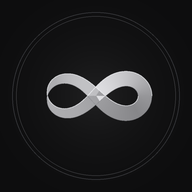
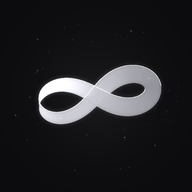
perf+design: ★글 작성 기본 1패스로 속도 대폭개선(3패스는 '✨품질 다듬기' 버튼으로 선택)+툴 변경시 이전요청 취소 / 여백 대폭확대(찌부 해결) / 아이콘-행성고리 눕힌∞+달빛 halo+미세 별빛

diff --git a/index.html b/index.html
@@ -1,7 +1,7 @@
 <!DOCTYPE html>
 <html lang="ko">
 <head>
-<meta name="build" content="0713-0408">
+<meta name="build" content="0713-0421">
 <meta http-equiv="Cache-Control" content="no-cache, no-store, must-revalidate">
 <meta http-equiv="Pragma" content="no-cache">
 <meta http-equiv="Expires" content="0">
@@ -499,6 +499,67 @@
   .thumbs{display:grid;grid-template-columns:repeat(4,1fr);gap:6px;margin-top:10px}
   .thumbs img{width:100%;aspect-ratio:1;object-fit:cover;border-radius:8px}
   .fdiv{height:1px;background:rgba(255,255,255,.06);margin:6px 0 18px}
+  /* ── 최종 스페이싱 (이미지 사양: 여유롭게) ── */
+  .page{padding:0 16px}
+  #page-make{padding-bottom:170px}
+  .hero{padding:20px 0 0}
+
+  .step-card{padding:26px 22px !important;margin-bottom:24px !important;border-radius:22px !important}
+  .sec-head{gap:16px !important;margin:0 0 22px !important}
+  .sec-num{width:48px !important;height:48px !important;border-radius:15px !important;font-size:16px !important}
+  .sec-kicker{font-size:10px !important;letter-spacing:.2em !important;margin-bottom:5px}
+  .sec-title{font-size:18px !important;line-height:1.4 !important}
+
+  /* 레이더: 카드 안 여백 */
+  #trendRadarTop{padding:0}
+  .radar-card{padding:20px !important;margin-bottom:16px !important;border-radius:18px !important}
+  .radar-top{margin-bottom:14px !important}
+  .radar-title{font-size:17px !important}
+  .radar-hook{font-size:13.5px !important;line-height:1.65 !important;margin-bottom:16px !important;color:var(--text) !important;font-weight:500 !important}
+  .radar-src{margin-bottom:16px !important;font-size:11px !important}
+  .radar-btns{gap:10px !important}
+  .rbtn{padding:15px 10px !important;font-size:12.5px !important;border-radius:13px !important}
+  .seg{padding:6px !important;border-radius:15px !important;margin-bottom:16px !important}
+  .seg-btn{padding:13px 6px !important;font-size:12.5px !important;border-radius:12px !important}
+  .radar-cats{padding:0 0 18px !important;gap:8px !important}
+  .radar-cats .chip{padding:10px 17px !important;font-size:12.5px !important}
+  .radar-foot{padding:12px 2px 4px !important;line-height:1.7 !important}
+
+  /* 상품 카드 */
+  .prod-grid{gap:11px !important}
+  .prod-card{padding:11px !important;border-radius:15px !important}
+  .prod-name{font-size:11px !important;height:32px !important;margin-bottom:7px !important}
+  .prod-price{font-size:14px !important;margin-bottom:11px !important}
+  .pbtn{padding:11px 4px !important;font-size:10.5px !important;margin-bottom:7px !important;border-radius:10px !important}
+
+  /* 연결 상품 */
+  .lp-title{font-size:17px !important;margin-bottom:8px !important}
+  .lp-sub{font-size:12px !important;margin-bottom:18px !important;line-height:1.6 !important}
+  .lp-tabs{gap:9px !important;padding-bottom:16px !important}
+  .lp-tab{padding:13px 16px !important;font-size:12px !important;border-radius:12px !important}
+  .lp-detail{padding:18px !important;border-radius:16px !important}
+  .lp-dtitle{font-size:14px !important;margin-bottom:10px !important}
+  .lp-dhook{font-size:12.5px !important;line-height:1.7 !important;margin-bottom:16px !important}
+  .lp-kws{gap:9px !important}
+  .lp-kw{padding:11px 16px !important;font-size:12.5px !important}
+
+  /* 폼 */
+  .fgroup{margin-bottom:22px !important}
+  .flabel{font-size:13px !important;margin-bottom:10px !important}
+  .drop{padding:36px 16px !important;border-radius:16px !important}
+  .drop-plus{width:52px !important;height:52px !important;margin-bottom:14px !important;font-size:24px !important}
+  .drop-t{font-size:13.5px !important;margin-bottom:6px !important}
+  .picked{padding:14px 16px !important;margin-bottom:20px !important;border-radius:13px !important}
+  input, textarea{padding:15px !important;border-radius:12px !important;font-size:14px !important;line-height:1.6}
+  .card{padding:22px !important;border-radius:20px !important;margin-bottom:18px !important}
+  .chips{padding:0 !important;gap:8px !important;margin-bottom:6px}
+  .chip{padding:10px 16px !important;font-size:12.5px !important}
+  .tone-scroll{gap:8px !important;padding:4px 0 8px !important}
+  .tone-head{padding:14px 0 6px !important}
+  .modeToggle{padding:5px !important;border-radius:15px !important}
+  .mode{padding:12px 16px !important;font-size:12.5px !important;border-radius:12px !important}
+  .btn{padding:16px !important;border-radius:13px !important;font-size:14px !important}
+  .appbar{padding:16px 18px !important}
 </style>
 </head>
 <body>
@@ -805,6 +866,6 @@
 </div>
 
 <script src="https://cdnjs.cloudflare.com/ajax/libs/html2canvas/1.4.1/html2canvas.min.js"></script>
-<script src="/app.js?v=1783915730"></script>
+<script src="/app.js?v=1783916480"></script>
 </body>
 </html>

diff --git a/app.js b/app.js
@@ -282,6 +282,27 @@ function setCh(el){
   }
 }
 // 같은 링크로 현재 채널 형식의 글을 다시 생성 (딥링크 있으니 검색 안 함)
+// 품질 다듬기 (3패스: 휴머나이즈 + 폴리시)
+function polishDraft(btn){
+  const d = window.__lastResult;
+  if(!d || !d.deeplink){ toast('먼저 글을 만들어주세요'); return; }
+  const result = document.getElementById('result');
+  if(result) result.innerHTML = '<div class="card"><div class="radar-loading"><span class="spin-sm"></span><span>✨ 사람다움 다듬는 중… (2~3패스)</span></div></div>';
+  const jobId = 'pol-' + Date.now();
+  const p = fetch('/api/generate-manual',{method:'POST',headers:{'Content-Type':'application/json'},
+      body:JSON.stringify({deeplink:d.deeplink, channel:'threads', tone:(window.curTone||'friendly'),
+        productName:d.productName||'', provider:(window.__llmPick||null),
+        extra:(document.getElementById('w_extra')?.value||''), quality:true})})
+    .then(r=>r.json()).then(res=>{ if(!res.ok) throw new Error('실패'); return {draft: res}; });
+  startJob(jobId, '품질 다듬기', p, (res)=>{
+    const page = document.getElementById('page-make');
+    if(page && !page.classList.contains('hidden')){
+      window.__jobs[jobId].seen = true;
+      renderResult(res.draft);
+    }
+  });
+}
+
 // 현재 고른 채널·말투·AI로 글 만들기
 function writeWithSettings(){
   const d = window.__lastResult;
@@ -290,10 +311,13 @@ function writeWithSettings(){
 }
 
 async function regenForChannel(deeplink, pname){
+  // 이전 생성 요청 취소 (툴/말투 바꿀 때 대기 안 쌓이게)
+  if(window.__genAbort){ try{ window.__genAbort.abort(); }catch(e){} }
+  window.__genAbort = new AbortController();
   const result = document.getElementById('result');
-  if(result) result.innerHTML = '<div class="card"><div style="text-align:center;padding:22px;color:var(--muted)">✍️ 글 쓰는 중…<br><span style="font-size:12px">다른 화면 가도 계속 진행돼요</span></div></div>';
+  if(result) result.innerHTML = '<div class="card"><div class="radar-loading"><span class="spin-sm"></span><span>✍️ 글 쓰는 중… (다른 화면 가도 계속돼요)</span></div></div>';
   const jobId = 'gen-' + Date.now();
-  const p = fetch('/api/generate-manual',{method:'POST',headers:{'Content-Type':'application/json'},
+  const p = fetch('/api/generate-manual',{method:'POST',signal:window.__genAbort.signal,headers:{'Content-Type':'application/json'},
       body:JSON.stringify({deeplink, channel, tone:(window.curTone||'friendly'), productName:pname, provider:(window.__llmPick||null), extra:(document.getElementById('w_extra')?.value||'')})})
     .then(r=>r.json())
     .then(d=>{ if(!d.ok) throw new Error('생성 실패'); return {draft: d}; });

diff --git a/app.py b/app.py
@@ -51,7 +51,7 @@ def _auto_image(product_name, info=None):
     return None
 
 
-def _gen_draft(uid, product_name, deeplink, tone, channel, info, provider=None, extra=""):
+def _gen_draft(uid, product_name, deeplink, tone, channel, info, provider=None, extra="", quality=False):
     """초안 생성. AI 키 있으면 AI가 직접 작성(사람다움), 없으면 템플릿."""
     if channel == "threads":
         try:
@@ -71,7 +71,7 @@ def _gen_draft(uid, product_name, deeplink, tone, channel, info, provider=None, 
         if akey:
             from core import claude_write_thread
             price = (info or {}).get("price")
-            r = claude_write_thread(akey, product_name, deeplink, tone, price, extra=extra)
+            r = claude_write_thread(akey, product_name, deeplink, tone, price, extra=extra, fast=(not quality))
             if r.get("ok"):
                 return r["content"]
     return make_blog_draft(product_name, deeplink, tone, channel, info)
@@ -855,7 +855,7 @@ def generate():
     if not d.get("skip_draft"):
         ok_d, _, _ = store.check_and_bump(user["id"], "draft", user["plan"])
         if ok_d:
-            draft = _gen_draft(user["id"], product_name, deeplink, tone, channel, info, d.get("provider"), d.get("extra", ""))
+            draft = _gen_draft(user["id"], product_name, deeplink, tone, channel, info, d.get("provider"), d.get("extra", ""), d.get("quality", False))
 
     store.save_link(user["id"], url, deeplink, product_name, channel)
 
@@ -898,7 +898,7 @@ def generate_manual():
     if not d.get("skip_draft"):
         ok_d, _, _ = store.check_and_bump(user["id"], "draft", user["plan"])
         if ok_d:
-            draft = _gen_draft(user["id"], product_name, deeplink, tone, channel, info, d.get("provider"), d.get("extra", ""))
+            draft = _gen_draft(user["id"], product_name, deeplink, tone, channel, info, d.get("provider"), d.get("extra", ""), d.get("quality", False))
     store.save_link(user["id"], "", deeplink, product_name, channel)
     naver_html = build_naver_html(product_name, deeplink, draft, info) if draft else None
     return jsonify({"ok": True, "deeplink": deeplink, "disclosure": COUPANG_DISCLOSURE,